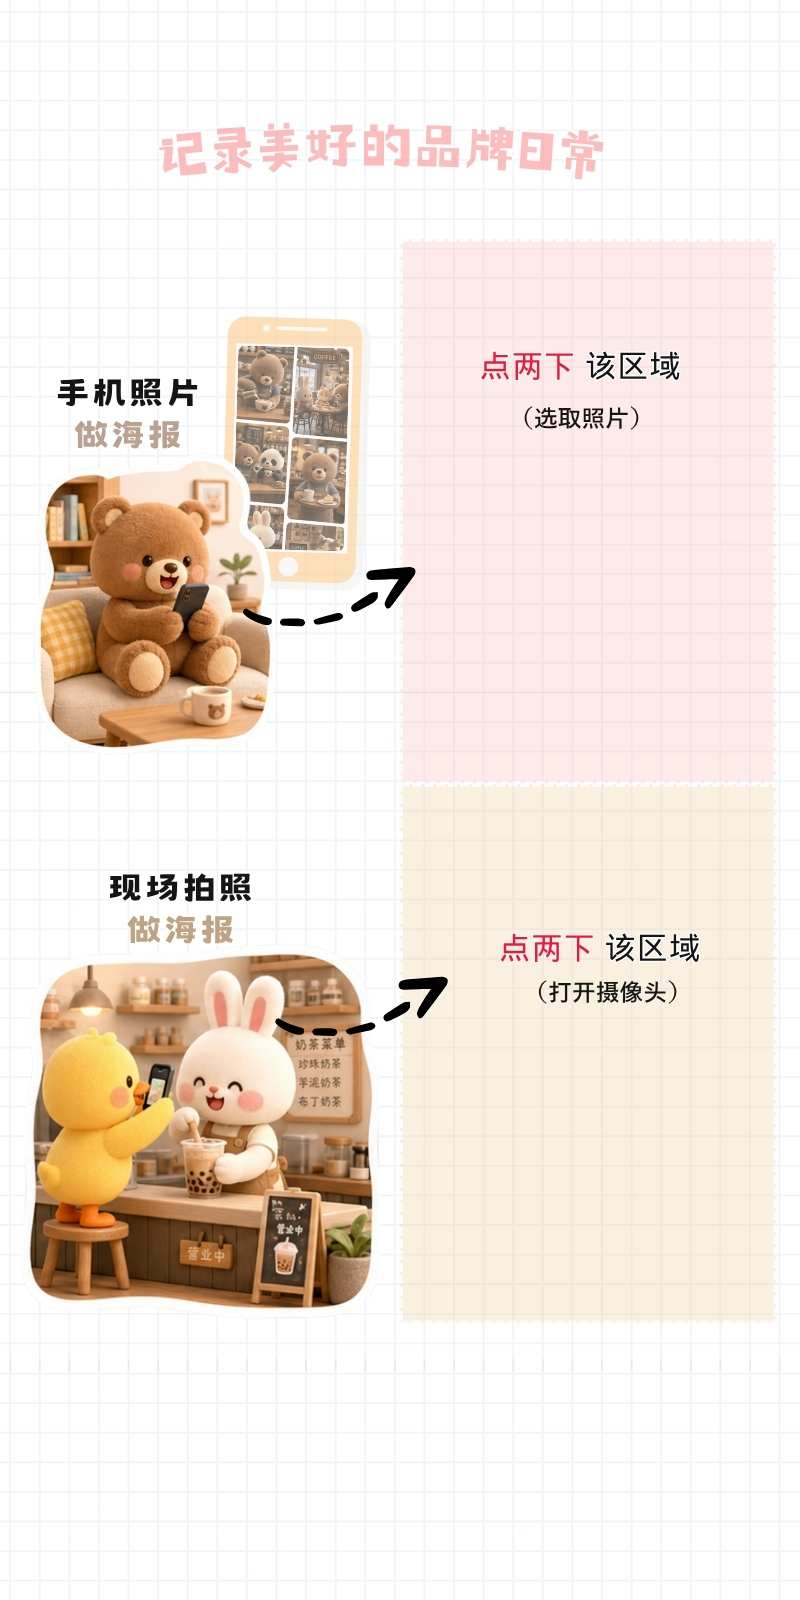
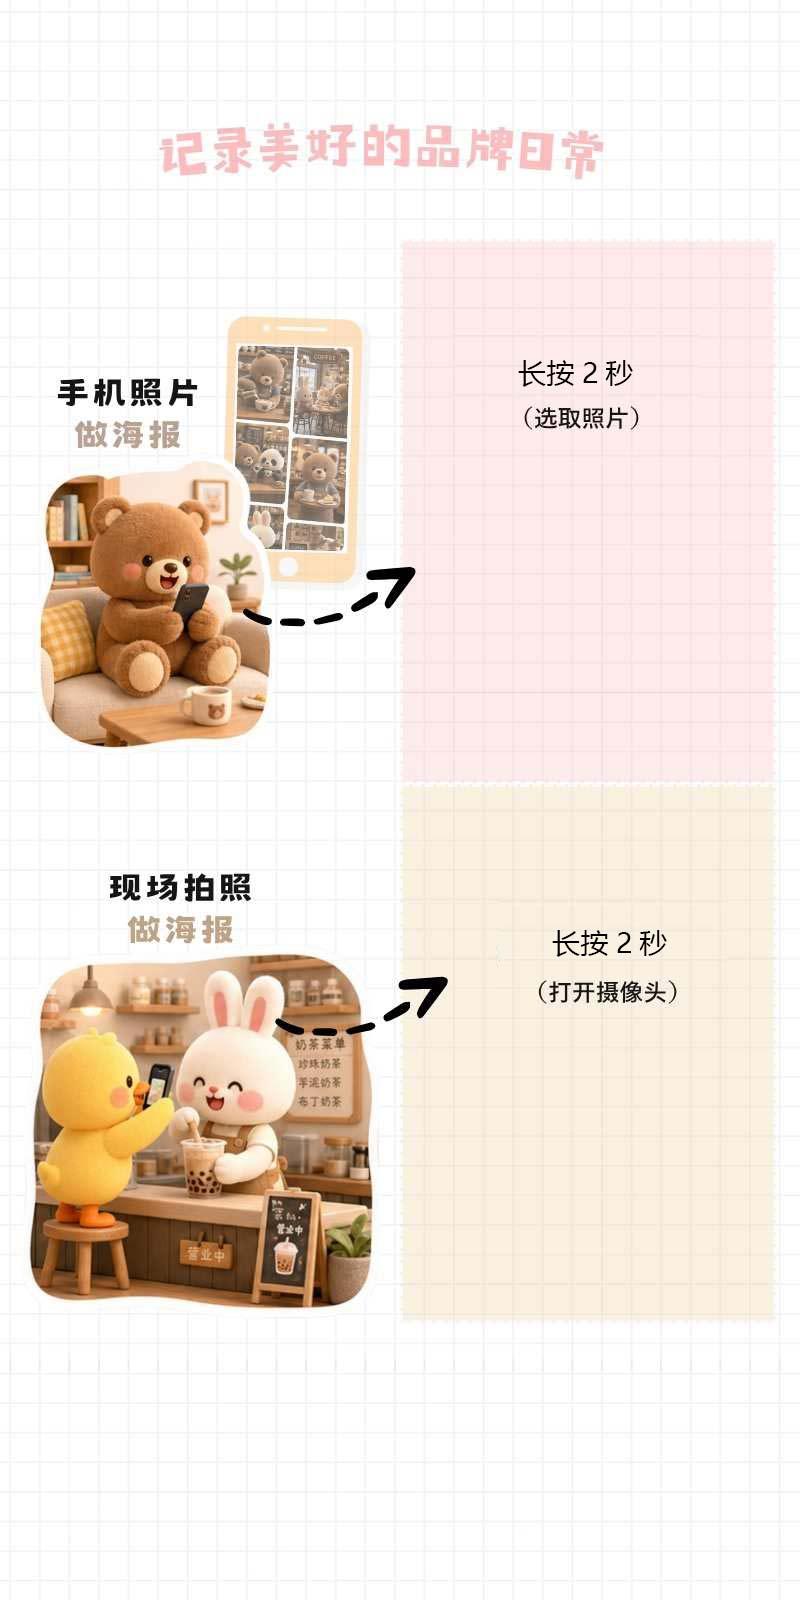
66

Changed region(s): [[0.625, 0.5625, 0.875, 0.625], [0.5938, 0.2188, 0.8438, 0.25]]

diff --git a/postdiy/editor.html b/postdiy/editor.html
@@ -431,14 +431,23 @@
         <!-- 中间透明触发区域（左右分区） -->
         <div id="templateTriggerArea" class="template-trigger-area">
           <div class="trigger-left" data-action="template">
-            <div class="trigger-hint">长按 更换模板</div>
+            <div class="trigger-hint">
+              <span class="hint-count">长按（2秒）</span>
+              <span class="hint-action">更换模板</span>
+            </div>
           </div>
           <div class="trigger-right">
             <div class="trigger-top" data-action="upload">
-              <div class="trigger-hint">长按 打开相册</div>
+              <div class="trigger-hint">
+                <span class="hint-count">长按（2秒）</span>
+                <span class="hint-action">打开相册</span>
+              </div>
             </div>
             <div class="trigger-bottom" data-action="camera">
-              <div class="trigger-hint">长按 拍照</div>
+              <div class="trigger-hint">
+                <span class="hint-count">长按（2秒）</span>
+                <span class="hint-action">拍照</span>
+              </div>
             </div>
           </div>
         </div>
@@ -1399,7 +1408,53 @@
       let timer = null;
       let clickCount = 0;
       let longPressTimer = null;
-      const LONG_PRESS_DURATION = 500;
+      const LONG_PRESS_DURATION = 2000; // 长按2秒触发
+
+      // 提示文案配置
+      const TRIGGER_HINTS = {
+        template: '更换模板',
+        upload: '打开相册',
+        camera: '拍照'
+      };
+      const COUNTDOWN_SECONDS = 2;
+
+      // 获取提示中的倒计时元素
+      function getCountEl(el) {
+        return el ? el.querySelector('.hint-count') : null;
+      }
+
+      // 重置提示文案为默认（带2秒）
+      function resetHint(el) {
+        const countEl = getCountEl(el);
+        if (!countEl) return;
+        countEl.textContent = `长按（${COUNTDOWN_SECONDS}秒）`;
+      }
+
+      // 启动倒计时（更新括号内秒数）
+      function startCountdown(el) {
+        stopCountdown(el);
+        const countEl = getCountEl(el);
+        if (!countEl) return;
+        let remaining = COUNTDOWN_SECONDS;
+        countEl.textContent = `长按（${remaining}秒）`;
+        el._countdownInterval = setInterval(() => {
+          remaining--;
+          if (remaining >= 0) {
+            countEl.textContent = `长按（${remaining}秒）`;
+          }
+          if (remaining < 0) {
+            stopCountdown(el);
+          }
+        }, 1000);
+      }
+
+      // 停止倒计时
+      function stopCountdown(el) {
+        if (el && el._countdownInterval) {
+          clearInterval(el._countdownInterval);
+          el._countdownInterval = null;
+        }
+      }
 
       // 触发对应功能
       function triggerAction(el) {
@@ -1421,6 +1476,7 @@
         if (timer) clearTimeout(timer);
         currentShown = el;
         clickCount = 1;
+        resetHint(el); // 恢复默认文案
         el.classList.add('show');
         // 2秒后自动隐藏（如果没有第二次点击）
         timer = setTimeout(() => {
@@ -1438,12 +1494,19 @@
         clickCount = 0;
       }
 
-      // 清除长按定时器
+      // 清除长按定时器和倒计时
       function clearLongPress() {
         if (longPressTimer) {
           clearTimeout(longPressTimer);
           longPressTimer = null;
         }
+        // 停止所有触发区域的倒计时并恢复文案
+        [left, top, bottom].forEach(function(el) {
+          if (el) {
+            stopCountdown(el);
+            if (currentShown === el) resetHint(el);
+          }
+        });
       }
 
       // 桌面端：鼠标悬停 + 点击都能显示提示
@@ -1470,8 +1533,10 @@
           } else if (!currentShown) {
             // 第一次点击：显示
             show(element);
-            // 长按触发功能
+            // 启动倒计时并长按触发功能
+            startCountdown(element);
             longPressTimer = setTimeout(() => {
+              stopCountdown(element);
               hide(element);
               triggerAction(element);
               longPressTimer = null;
@@ -1519,8 +1584,10 @@
           } else if (!currentShown) {
             // 第一次点击：显示
             show(target);
-            // 长按触发功能
+            // 启动倒计时并长按触发功能
+            startCountdown(target);
             longPressTimer = setTimeout(() => {
+              stopCountdown(target);
               hide(target);
               triggerAction(target);
               longPressTimer = null;

diff --git a/postdiy/frame-categories.js b/postdiy/frame-categories.js
@@ -38,7 +38,7 @@ window.FrameCategoriesData = [
   { name: '渐变', start: 11, end: 15, colorAdjustEnabled: true },
   { name: '女性', colorAdjustEnabled: false },
   { name: '现代', colorAdjustEnabled: false },
-  { name: '国风', start: 16, end: 18, colorAdjustEnabled: false },
-  { name: '电商', start: 19, end: 19, colorAdjustEnabled: false },
+  { name: '国风', start: 77, end: 92, colorAdjustEnabled: false },
+  { name: '电商', start: 51, end: 66, colorAdjustEnabled: false },
   { name: '卡通', start: 20, end: 43, colorAdjustEnabled: false }
 ];

diff --git a/postdiy/styles.css b/postdiy/styles.css
@@ -1595,6 +1595,22 @@ footer {
   z-index: 100;
   white-space: nowrap;
   transition: opacity 0.2s ease;
+  display: flex;
+  flex-direction: column;
+  align-items: center;
+  gap: 4px;
+  line-height: 1.2;
+}
+
+/* 倒计时行（第一行） */
+.trigger-hint .hint-count {
+  font-size: 13px;
+  opacity: 0.9;
+}
+
+/* 动作文字行（第二行） */
+.trigger-hint .hint-action {
+  font-size: 15px;
 }
 
 /* æ¿€æ´»çŠ¶æ€ */
